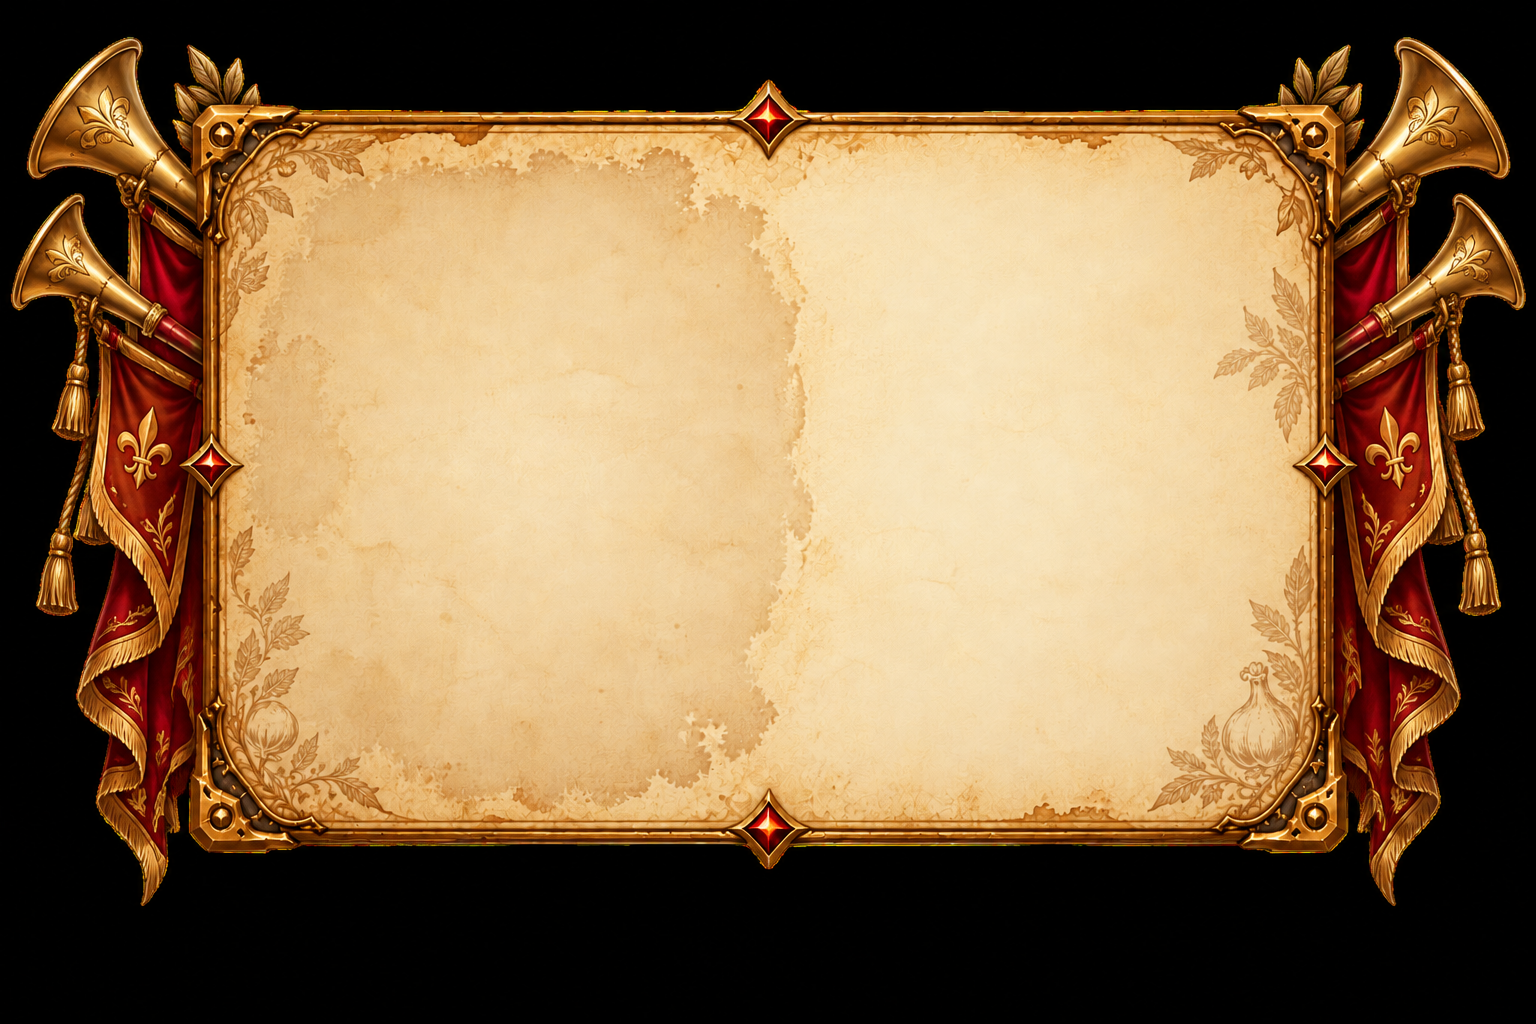
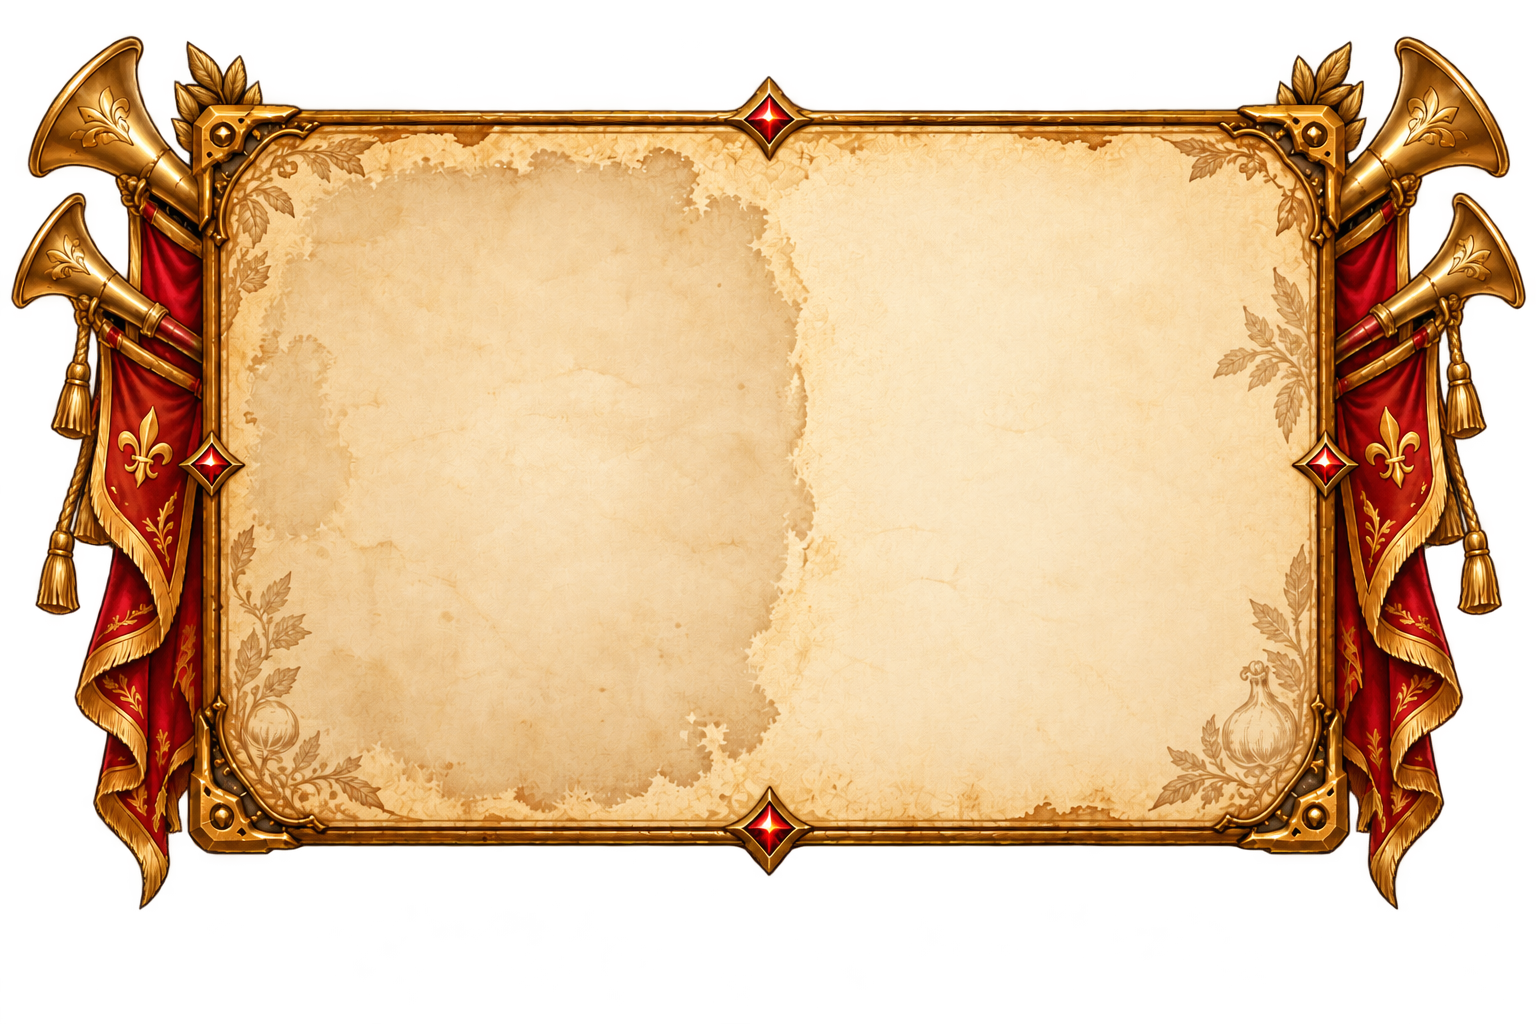
style: update footer and grimoire section with new assets and improved layout

diff --git a/src/App.tsx b/src/App.tsx
@@ -5,7 +5,6 @@ import type { Recipe } from './types';
 import { Hero } from './components/Hero';
 import { RecipeGrid } from './components/RecipeGrid';
 import { RecipeModal } from './components/RecipeModal';
-import { Ornament } from './components/Primitives';
 export default function App() {
   const [chosen, setChosen] = useState<Recipe | null>(null);
   const [dieValue, setDieValue] = useState(20);
@@ -51,8 +50,7 @@ export default function App() {
           </span>
         </a>
         <nav className="top-links" aria-label="Main navigation">
-          <a href="#how">THE QUEST</a>
-          <a href="#marinades">MARINADES</a>
+          <a href="#marinades">The Marinade Grimoire</a>
         </nav>
         <div className="nav-sigil" aria-hidden="true">
           <Icon name="sparkle" />
@@ -67,43 +65,50 @@ export default function App() {
             setModal(recipe);
           }}
         />
-        <section className="how-section container" id="how">
-          <Ornament elongated />
-          <h2 className="section-title">A FEAST WRITTEN IN THE STARS</h2>
-          <div className="how-grid">
-            <div>
-              <span className="how-icon">
-                <Icon name="swords" />
-              </span>
-              <h3>GATHER THE PARTY</h3>
-              <p>Summon your appetite and assemble your ingredients.</p>
-            </div>
-            <div>
-              <span className="how-icon">
-                <Icon name="dice" />
-              </span>
-              <h3>ROLL FOR DESTINY</h3>
-              <p>Let a magical D20 choose tonight's legendary marinade.</p>
-            </div>
-            <div>
-              <span className="how-icon">
-                <Icon name="star" />
-              </span>
-              <h3>CLAIM YOUR REWARD</h3>
-              <p>Follow the recipe and win a delicious encounter.</p>
-            </div>
-          </div>
+        <section className="grimoire-ending container" id="how" aria-labelledby="ending-title">
+          <img
+            className="ending-divider"
+            src={`${import.meta.env.BASE_URL}assets/Watercolor Ruby Ornamental Divider.png`}
+            alt=""
+            aria-hidden="true"
+          />
+          <p className="ending-kicker">The final page</p>
+          <h2 id="ending-title">Here Ends the Grimoire</h2>
+          <p className="ending-copy">Twenty recipes discovered. Not a single dragon slain.</p>
+          <p className="ending-copy">The chickens, however, have concerns.</p>
+          <img
+            className="ending-book"
+            src={`${import.meta.env.BASE_URL}assets/grimoire.png`}
+            alt="A leather-bound chicken grimoire with a quill and scattered herbs"
+            loading="lazy"
+          />
         </section>
       </main>
-      <footer className="footer">
-        <div className="footer-inner">
-          <div>
-            <Icon name="swords" /> &nbsp; DUNGEONS & DRUMSTICKS &nbsp; <Icon name="swords" />
+      <footer className="grimoire-footer">
+        <div className="container">
+          <img
+            className="ending-divider footer-divider"
+            src={`${import.meta.env.BASE_URL}assets/Watercolor Ruby Ornamental Divider.png`}
+            alt=""
+            aria-hidden="true"
+          />
+          <a className="footer-brand" href="#top">
+            Dungeons &amp; Drumsticks
+          </a>
+          <p className="footer-tagline">Good chicken leads to great quests.</p>
+          <div className="footer-bottom">
+            <p>&copy; {new Date().getFullYear()} &middot; The Culinary Adventurers&rsquo; Guild</p>
+            <nav aria-label="Footer navigation">
+              <a href="#quest">The Quest</a>
+              <a href="#marinades">The Marinade Grimoire</a>
+              <a href="https://github.com/irenically/dungeons-and-drumsticks">GitHub</a>
+            </nav>
+            <p className="footer-credit">
+              Crafted with magic, questionable judgment,
+              <br />
+              and a little paprika.
+            </p>
           </div>
-          <p>GOOD CHICKEN LEADS TO GREAT QUESTS.</p>
-          <span>
-            <Icon name="star" /> CRAFTED WITH MAGIC & A LITTLE PAPRIKA <Icon name="star" />
-          </span>
         </div>
       </footer>
       <RecipeModal recipe={modal} origin={modalOrigin} onClose={() => setModal(null)} />

diff --git a/src/styles.css b/src/styles.css
@@ -161,12 +161,17 @@ button:disabled {
   text-shadow: 0 2px 8px #000;
   margin: 0 0 8px;
 }
-.hero h1 {
+.hero h1,
+.footer-brand {
   color: #ffe8b2;
   text-shadow:
     0 3px 0 #74441b,
     0 6px 0 #28170f,
     0 10px 19px #090f1b;
+  font-family: var(--fantasy-font);
+  font-weight: 900;
+}
+.hero h1 {
   font: 900 clamp(41px, 5.5vw, 75px)/0.98 var(--fantasy-font);
   letter-spacing: -3px;
   margin: 0;
@@ -1469,6 +1474,117 @@ button:disabled {
 }
 .mini-scroll:after {
   right: -6px;
+}
+.grimoire-ending {
+  padding-block: 70px 90px;
+  text-align: center;
+}
+.ending-divider {
+  display: block;
+  width: min(420px, 75%);
+  height: auto;
+  margin: 0 auto 22px;
+}
+.ending-kicker {
+  margin: 0 0 24px;
+  color: var(--old-gold);
+  font: 600 16px var(--fantasy-font);
+  letter-spacing: 4px;
+  text-transform: uppercase;
+}
+.grimoire-ending h2 {
+  margin: 0 0 24px;
+  font: 700 clamp(32px, 5vw, 64px)/1.15 var(--body-font);
+}
+.ending-copy {
+  margin: 14px 0;
+  font-size: clamp(20px, 2.6vw, 32px);
+  font-style: italic;
+  line-height: 1.4;
+}
+.ending-book {
+  display: block;
+  width: min(520px, 90%);
+  height: auto;
+  margin: 28px auto 0;
+}
+.grimoire-footer {
+  position: relative;
+  padding: 70px 0 32px;
+  color: #f2cf92;
+  text-align: center;
+  background:
+    linear-gradient(#28160ee8, #1d100bf2),
+    url('/assets/parchment.webp') center / 650px;
+}
+.grimoire-footer::before {
+  content: '';
+  position: absolute;
+  inset: auto 0 100%;
+  height: clamp(60px, 11vw, 160px);
+  margin-bottom: clamp(-60px, -4vw, -20px);
+  background: url('/assets/paper-edge.png') center 48% / 100% auto no-repeat;
+  mask-image: linear-gradient(to bottom, transparent, #000 45%);
+  pointer-events: none;
+}
+.footer-divider {
+  width: min(300px, 65%);
+  margin-bottom: 20px;
+}
+.footer-brand {
+  font-size: clamp(28px, 3.5vw, 44px);
+  letter-spacing: -1px;
+  text-transform: uppercase;
+}
+.footer-tagline {
+  margin: 8px 0 32px;
+  font-size: clamp(20px, 2.3vw, 27px);
+  font-style: italic;
+}
+.footer-bottom {
+  display: flex;
+  align-items: center;
+  justify-content: space-between;
+  gap: 24px;
+  padding-top: 24px;
+  border-top: 1px solid #b9813b80;
+  font-size: 15px;
+}
+.footer-bottom p {
+  margin: 0;
+}
+.footer-bottom nav {
+  display: flex;
+  flex-wrap: wrap;
+  justify-content: center;
+  gap: 12px 24px;
+}
+.footer-bottom a:hover {
+  color: #fff0c2;
+  text-decoration: underline;
+}
+.footer-credit {
+  text-align: right;
+  font-style: italic;
+}
+@media (max-width: 650px) {
+  .grimoire-ending {
+    padding-block: 45px 55px;
+  }
+  .ending-kicker {
+    font-size: 12px;
+    letter-spacing: 3px;
+  }
+  .grimoire-footer {
+    padding-top: 55px;
+  }
+  .footer-bottom {
+    flex-direction: column;
+    gap: 20px;
+  }
+  .footer-credit {
+    text-align: center;
+  }
 }
 .footer {
   min-height: 180px;
@@ -3568,7 +3684,7 @@ button:disabled {
   height: 100%;
   overflow: auto;
   overscroll-behavior: contain;
-  padding: 28px 48px;
+  padding: 28px 80px 28px 48px;
   scrollbar-width: thin;
   scrollbar-color: #ac8246 transparent;
 }
@@ -3667,7 +3783,7 @@ button:disabled {
   .modal-details {
     height: auto;
     overflow: visible;
-    padding: 18px;
+    padding: 18px 30px 18px 18px;
   }
   .modal-recipe-stamp {
     top: 6%;
@@ -3724,7 +3840,7 @@ button:disabled {
   gap: 0;
 }
 .recipe-modal--roll .modal-details {
-  padding: 64px 48px 24px;
+  padding: 64px 80px 24px 48px;
 }
 .recipe-modal--roll h2 {
   margin-bottom: 8px;
@@ -3764,6 +3880,6 @@ button:disabled {
     gap: 14px;
   }
   .recipe-modal--roll .modal-details {
-    padding: 18px;
+    padding: 18px 30px 18px 18px;
   }
 }

diff --git a/src/components/RecipeGrid.tsx b/src/components/RecipeGrid.tsx
@@ -22,7 +22,7 @@ export function RecipeGrid({
       <h2 className="section-title">The Marinade Grimoire</h2>
       <img
         className="recipes-divider recipes-divider--ruby"
-        src={`${import.meta.env.BASE_URL}assets/Ruby Filigree Gold Divider.png`}
+        src={`${import.meta.env.BASE_URL}assets/Watercolor Ruby Ornamental Divider.png`}
         alt=""
         aria-hidden="true"
       />

diff --git a/src/components/Hero.tsx b/src/components/Hero.tsx
@@ -258,7 +258,7 @@ export function Hero({
     return () => observer.disconnect();
   }, []);
   return (
-    <section ref={sceneRef} className="hero" aria-labelledby="hero-heading">
+    <section id="quest" ref={sceneRef} className="hero" aria-labelledby="hero-heading">
       <div className="hero-scene" aria-hidden="true" />
       <div className="hero-shade" aria-hidden="true" />
       <svg
